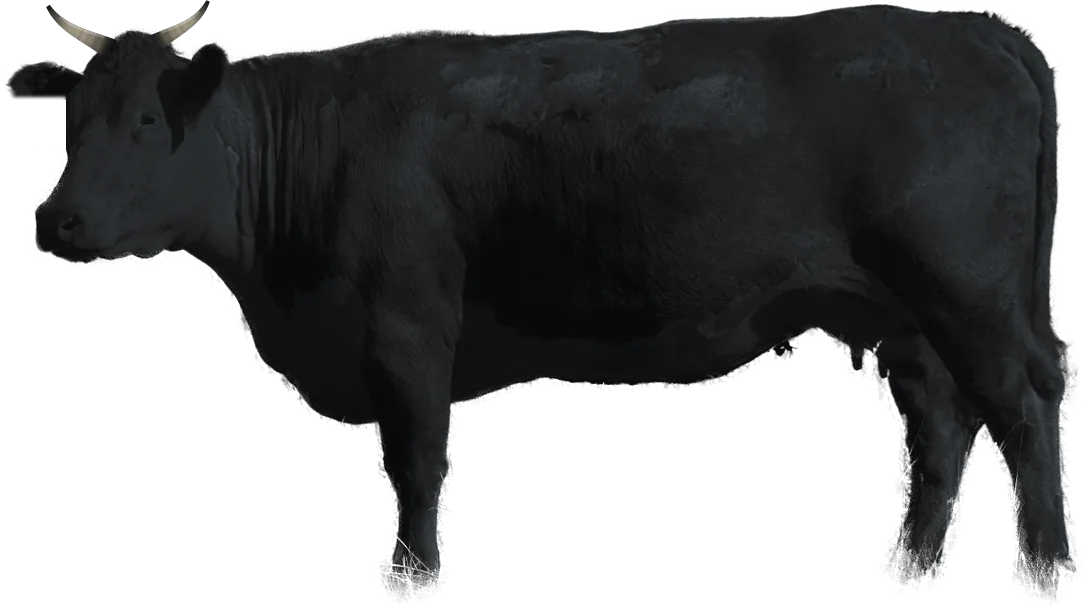
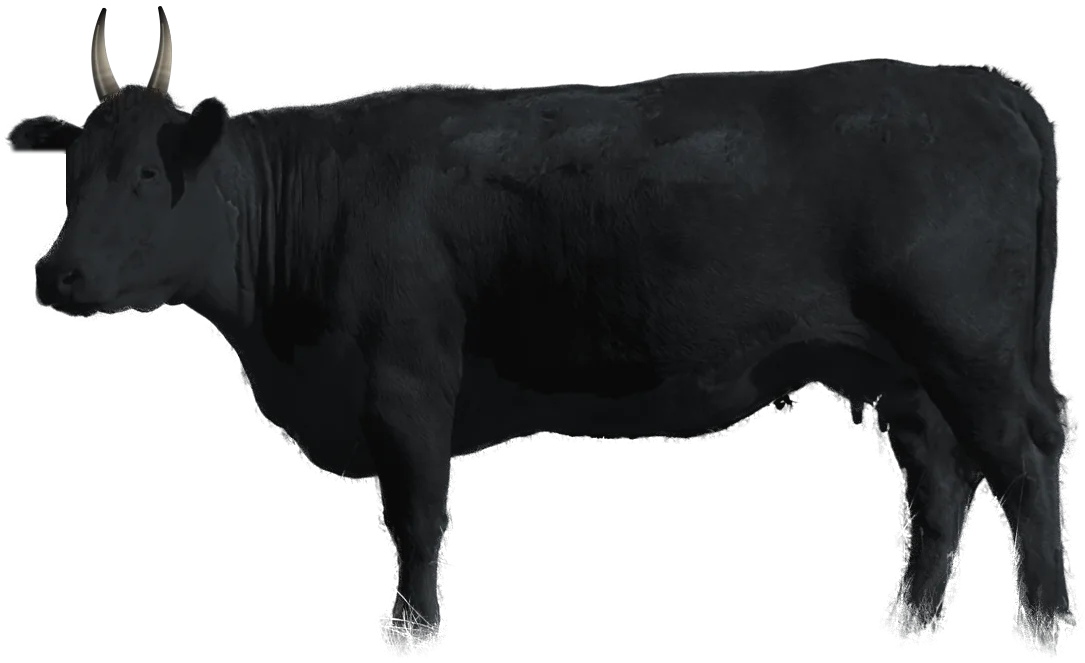
Cuts window: upright, more lifelike horns on the steer (shaded, grained and ringed, rising out of the hair)
Claude-Session: https://claude.ai/code/session_019NsoWEujssTsfRwL36NJVa

diff --git a/js/app.js b/js/app.js
@@ -314,10 +314,10 @@
     ['shank','Shank','880,380 1085,380 1085,609 880,609',[1000,470,-90],'']
   ],cmN=0;
   function primalMap(on){
-    var n=++cmN,mid='cmmask'+n,src='assets/images/cuts/angus-steer.webp',lit=function(k){return on.indexOf(k)<0?'':' on'};
-    var h='<figure class="cm-wrap"><svg class="cm" viewBox="0 0 1085 609" role="img" aria-label="Photograph of a black Angus steer marked with the cuts of beef, showing where this cut comes from" focusable="false"><defs>'+
-      '<mask id="'+mid+'" style="mask-type:alpha" maskUnits="userSpaceOnUse" x="0" y="0" width="1085" height="609"><image href="'+src+'" width="1085" height="609"/></mask></defs>'+
-      '<image class="cm-photo" href="'+src+'" width="1085" height="609"/><g mask="url(#'+mid+')"><rect class="cm-dim" width="1085" height="609"/>';
+    var n=++cmN,mid='cmmask'+n,src='assets/images/cuts/angus-steer.webp?v=2',lit=function(k){return on.indexOf(k)<0?'':' on'};
+    var h='<figure class="cm-wrap"><svg class="cm" viewBox="0 -54 1085 663" role="img" aria-label="Photograph of a black Angus steer marked with the cuts of beef, showing where this cut comes from" focusable="false"><defs>'+
+      '<mask id="'+mid+'" style="mask-type:alpha" maskUnits="userSpaceOnUse" x="0" y="-54" width="1085" height="663"><image href="'+src+'" y="-54" width="1085" height="663"/></mask></defs>'+
+      '<image class="cm-photo" href="'+src+'" y="-54" width="1085" height="663"/><g mask="url(#'+mid+')"><rect class="cm-dim" y="-54" width="1085" height="663"/>';
     PRIMALS.forEach(function(p){h+='<polygon class="cm-p'+lit(p[0])+'" points="'+p[2]+'"/>'});
     h+='</g>';
     PRIMALS.forEach(function(p){

diff --git a/index.html b/index.html
@@ -860,7 +860,7 @@
 <script src="js/wine-details.js?v=20261029a"></script>
 <script src="js/beef-cuts.js?v=20261030c"></script>
 <script src="js/catering.js?v=20261020d"></script>
-<script src="js/app.js?v=20261030j"></script>
+<script src="js/app.js?v=20261030k"></script>
 <script src="js/analytics.js?v=20261012b"></script>
 <script src="js/join.js?v=20261013a"></script>
 <script src="js/hearth-hero.js?v=20261020a"></script>
